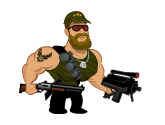
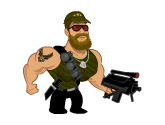
altered enemy & hero
got rid of hero's shotgun & changed the size of the enemy

Changed region(s): [[0.0909, 0.36, 0.5152, 0.768], [0.2121, 0.576, 0.2424, 0.624]]

diff --git a/enemy.js b/enemy.js
@@ -5,8 +5,8 @@ var enemy = function()
 	this.x = canvas.width/2;
 	this.y = canvas.height/2;
 	
-	this.width = 159;
-	this.height = 163;
+	this.width = 192;
+	this.height = 199;
 	
 	this.velocityX = 0;
 	this.velocityY = 0;

diff --git a/player.js b/player.js
@@ -3,7 +3,7 @@ var Player = function()
 	this.image = document.createElement("img");
 	
 	this.x = canvas.width/4;
-	this.y = canvas.height/3;
+	this.y = canvas.height/1.5;
 	
 	this.width = 159;
 	this.height = 163;
